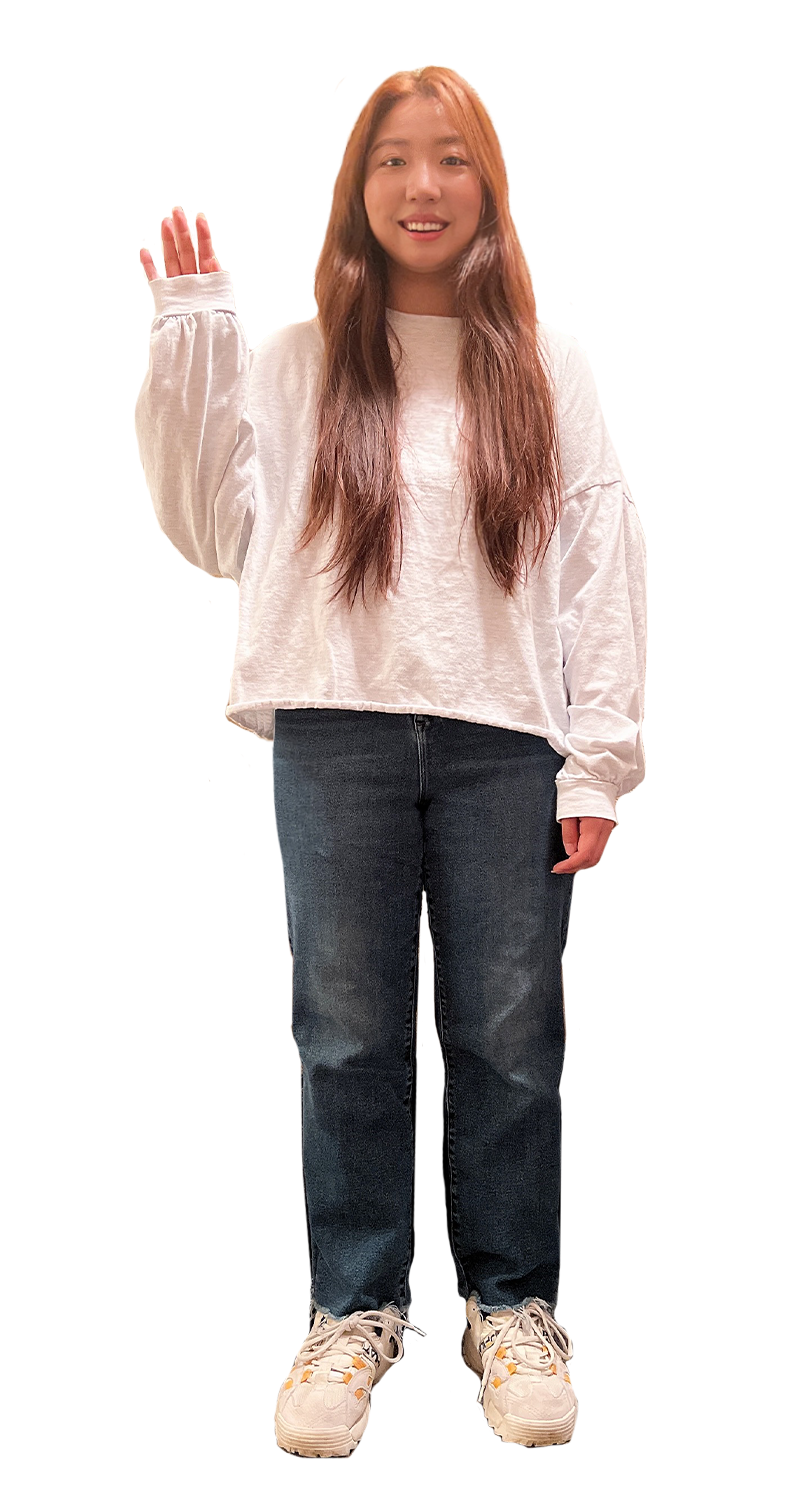
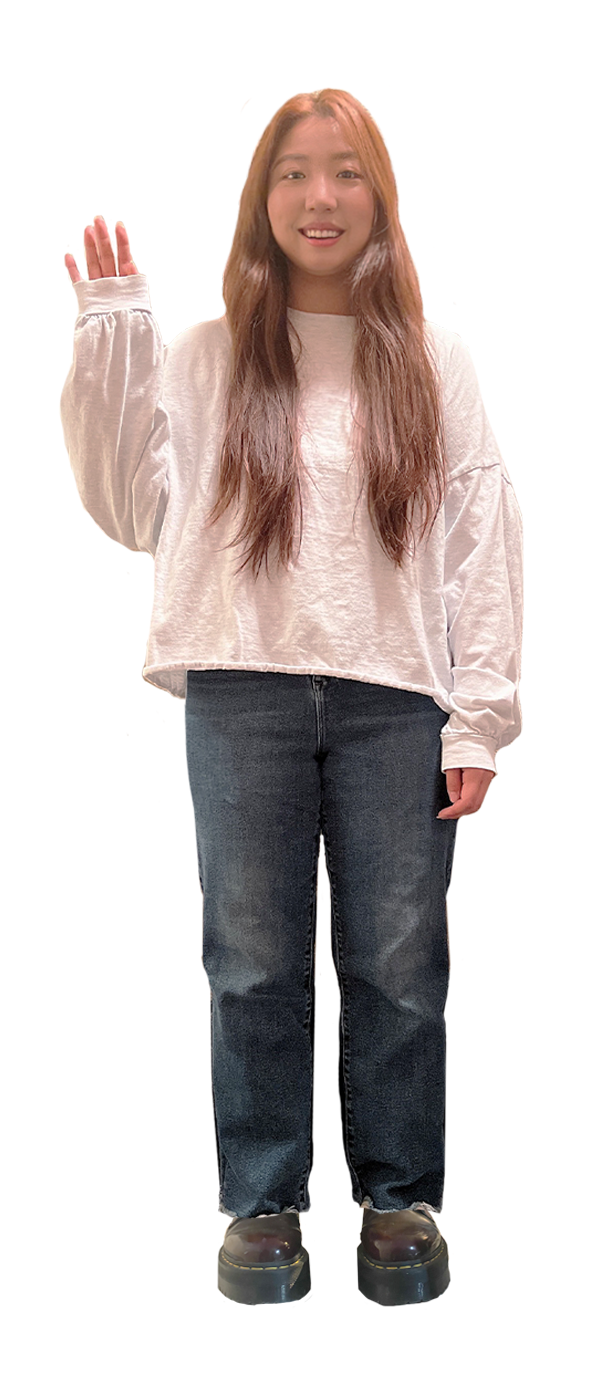
changed portfolio page

Changed region(s): [[0.09, 0.0307, 0.87, 0.9829]]

diff --git a/Explore-Portfolio.html b/Explore-Portfolio.html
@@ -28,7 +28,7 @@
 }
 
     body{
-        overflow:hidden;
+        /* overflow:hidden; */
         text-align: center;
         background-color: rgb(255, 255, 255);
     }
@@ -37,11 +37,11 @@
     display:flex;
     width: 100%;
     height: 100%;
-    overflow: hidden;
+    /* overflow: hidden; */
 }
 .container .img{
     flex-shrink: 0;
-    overflow:hidden;
+    /* overflow:hidden; */
 }
 
     .project1{
@@ -71,7 +71,7 @@
 /* Adjust animation duration to change the element’s speed */
     animation: fly 70s linear infinite;
 	transform: translate(100px, 100px);
-    /* background-image: url(Walking-R.gif); */
+    /* background-image: url(WalkRight1.gif); */
     /* background-size: auto; */
     max-width: 65px;
     max-height: 150px;
@@ -88,8 +88,8 @@
     
     /* animation-play-state: paused; */
     animation-play-state: paused;
-    background-image: url(Hi.png) !important;
-    background-size: 85px;
+    background-image: url(Hi_boots.png) !important;
+    background-size: 81px;
     /* opacity: 1; */
 }
 
@@ -103,45 +103,43 @@
 
      100%, 0% {
                 /* display:block; */
-                background-image: url(Walking-R.gif);
+                background-image: url(WalkRight1.gif);
                 transform: translate(300px, 200px);
-
-                
 	}
 
 	16% {
         /* second point */
-        background-image: url(Walking-R.gif);
+        background-image: url(WalkRight1.gif);
         transform: translate(1100px, 80px);
 		
 	}
 
 	25% {
         /* third point */
-        background-image: url(Walking-R.gif);
+        background-image: url(WalkRight1.gif);
 		transform: translate(1400px, 100px);
 	}
 
 	48%{
         /* fourth point */
-        background-image: url(Walking-R.gif);
+        background-image: url(WalkRight1.gif);
         transform: translate(1900px, 800px);
 		
 	}
     48.001%{
-        background-image: url(Walking_L.gif);
+        background-image: url(WalkLeft1.gif);
     }
 	65% {
-        background-image: url(Walking_L.gif);
+        background-image: url(WalkLeft1.gif);
 		transform: translate(1200px, 900px);
 	}
 
 	85% {
-        background-image: url(Walking_L.gif);
+        background-image: url(WalkLeft1.gif);
 		transform: translate(300px, 800px);
 	}
     85.001%{
-        background-image: url(Walking-R.gif);
+        background-image: url(WalkRight1.gif);
         /* transform: translate(100px, 100px); */
     }
 }

diff --git a/portfolio.html b/portfolio.html
@@ -75,42 +75,15 @@
 
       <body>
 
-        <div class="responsive">
-            <div class="gallery">
-              <a target="_blank" href="Artwork/Andy Warhol.png">
-                <img src="Artwork/Andy Warhol.png" alt="Cinque Terre" width="600" height="400">
-              </a>
-              <div class="desc">Add a description of the image here</div>
-            </div>
-          </div>
-          
-          
-          <div class="responsive">
-            <div class="gallery">
-              <a target="_blank" href="Artwork/Copy of IMG_7225.png">
-                <img src="Artwork/Copy of IMG_7225.png" alt="Forest" width="600" height="400">
-              </a>
-              <div class="desc">Add a description of the image here</div>
-            </div>
-          </div>
-          
-          <div class="responsive">
-            <div class="gallery">
-              <a target="_blank" href="Artwork/Bilingual Typeface Poster FD copy1024_1.jpg">
-                <img src="Artwork/Bilingual Typeface Poster FD copy1024_1.jpg" alt="Northern Lights" width="600" height="400">
-              </a>
-              <div class="desc">Add a description of the image here</div>
-            </div>
-          </div>
-          
-          <div class="responsive">
-            <div class="gallery">
-              <a target="_blank" href="Artwork/ConcertPoster11024_1.jpg">
-                <img src="Artwork/ConcertPoster11024_1.jpg" width="600" height="400">
-              </a>
-              <div class="desc">Add a description of the image here</div>
-            </div>
-          </div>
+        <div id="gallery">
+          <img src="Artwork/Andy Warhol.png">
+          <img src="Artwork/Bilingual Typeface Poster FD copy1024_1.jpg">
+          <img src="Artwork/ConcertPoster11024_1.jpg">
+          <img src="Artwork/Copy of IMG_7225.png">
+          <img src="Artwork/Insomnia Puzzle.png">
+
+        </div>
+
 
       </body>
 

diff --git a/styles.css b/styles.css
@@ -86,3 +86,34 @@ nav a:hover::before {
   width: 100%;
 }
 
+
+/* for image gallery portfolio */
+#gallery {
+  margin-top: 5%;
+  margin-left: 5%;
+  margin-right: 5%;
+  line-height:0;
+  -webkit-column-count:5; /* split it into 5 columns */
+  -webkit-column-gap:5px; /* give it a 5px gap between columns */
+  -moz-column-count:5;
+  -moz-column-gap:5px;
+  column-count:5;
+  column-gap:5px;
+}
+
+#gallery img {
+  width: 100% !important;
+  height: auto !important;
+  margin-bottom:5px; /* to match column gap */
+  /* z-index: 1; */
+  position: relative;
+  filter: grayscale(100%)
+
+}
+#gallery img:hover {
+  z-index: 1 !important;
+  filter: none;
+  transition:transform .5s ease;
+  transform: scale(1.25);
+  
+}
